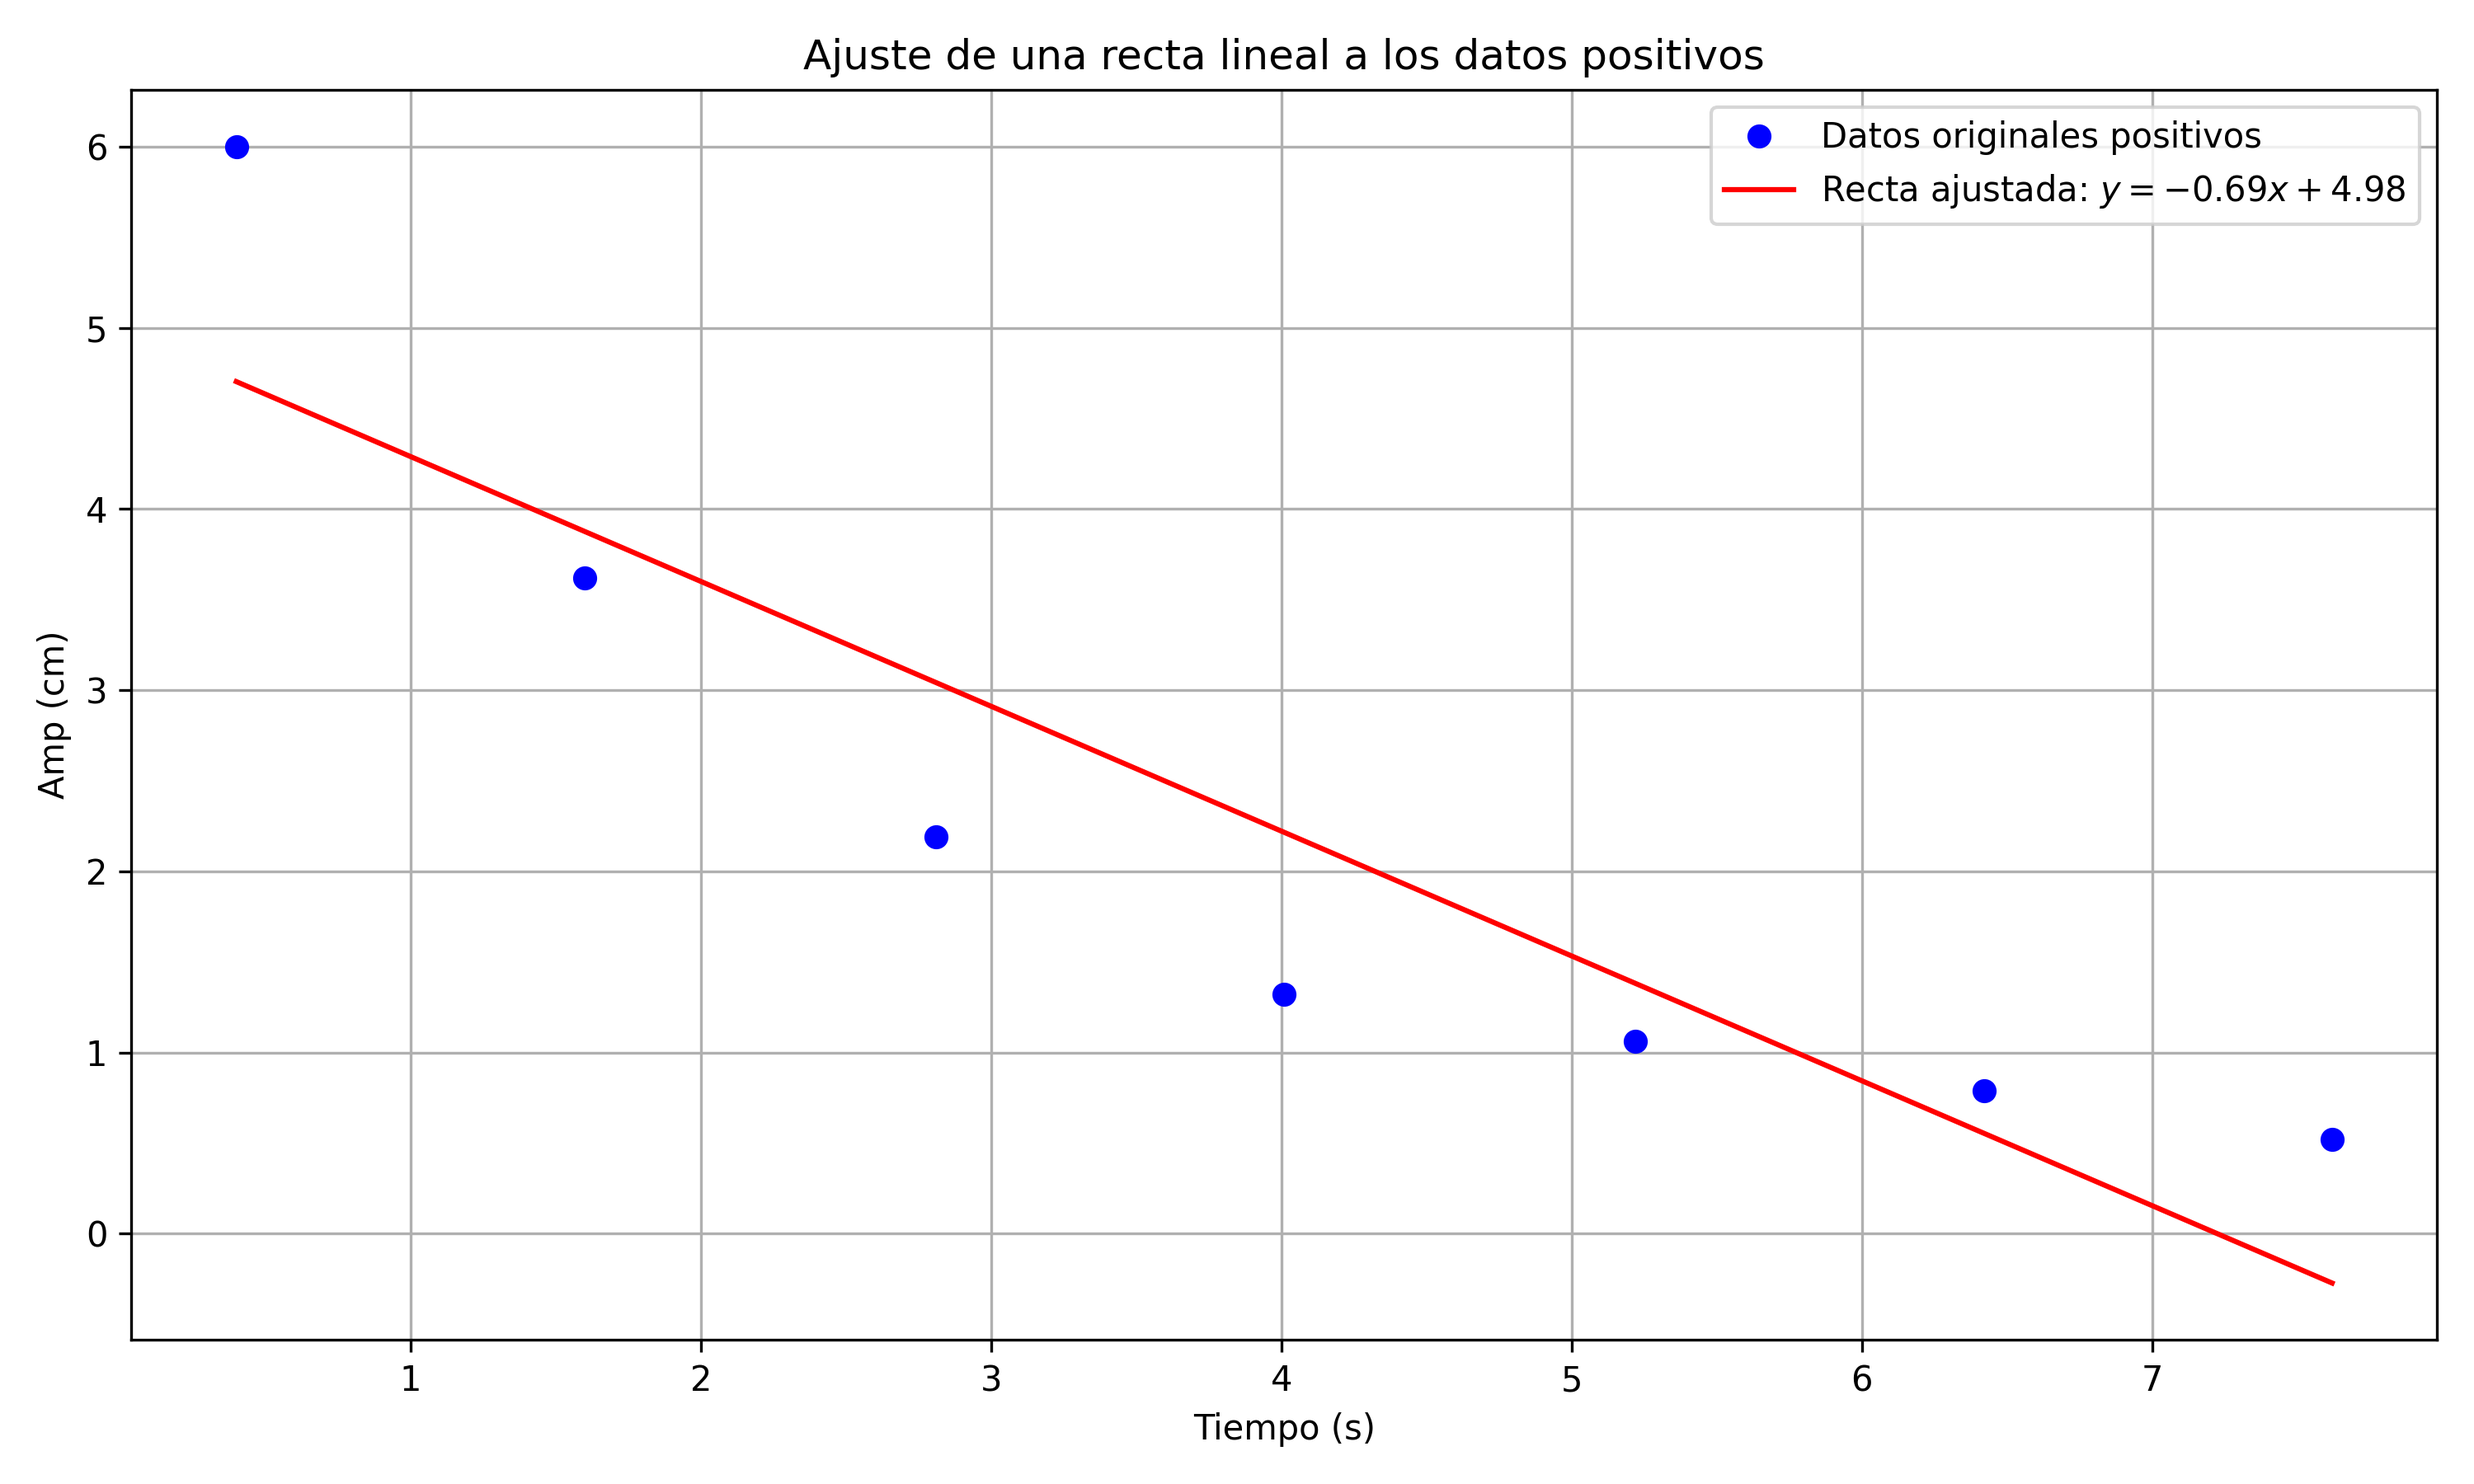
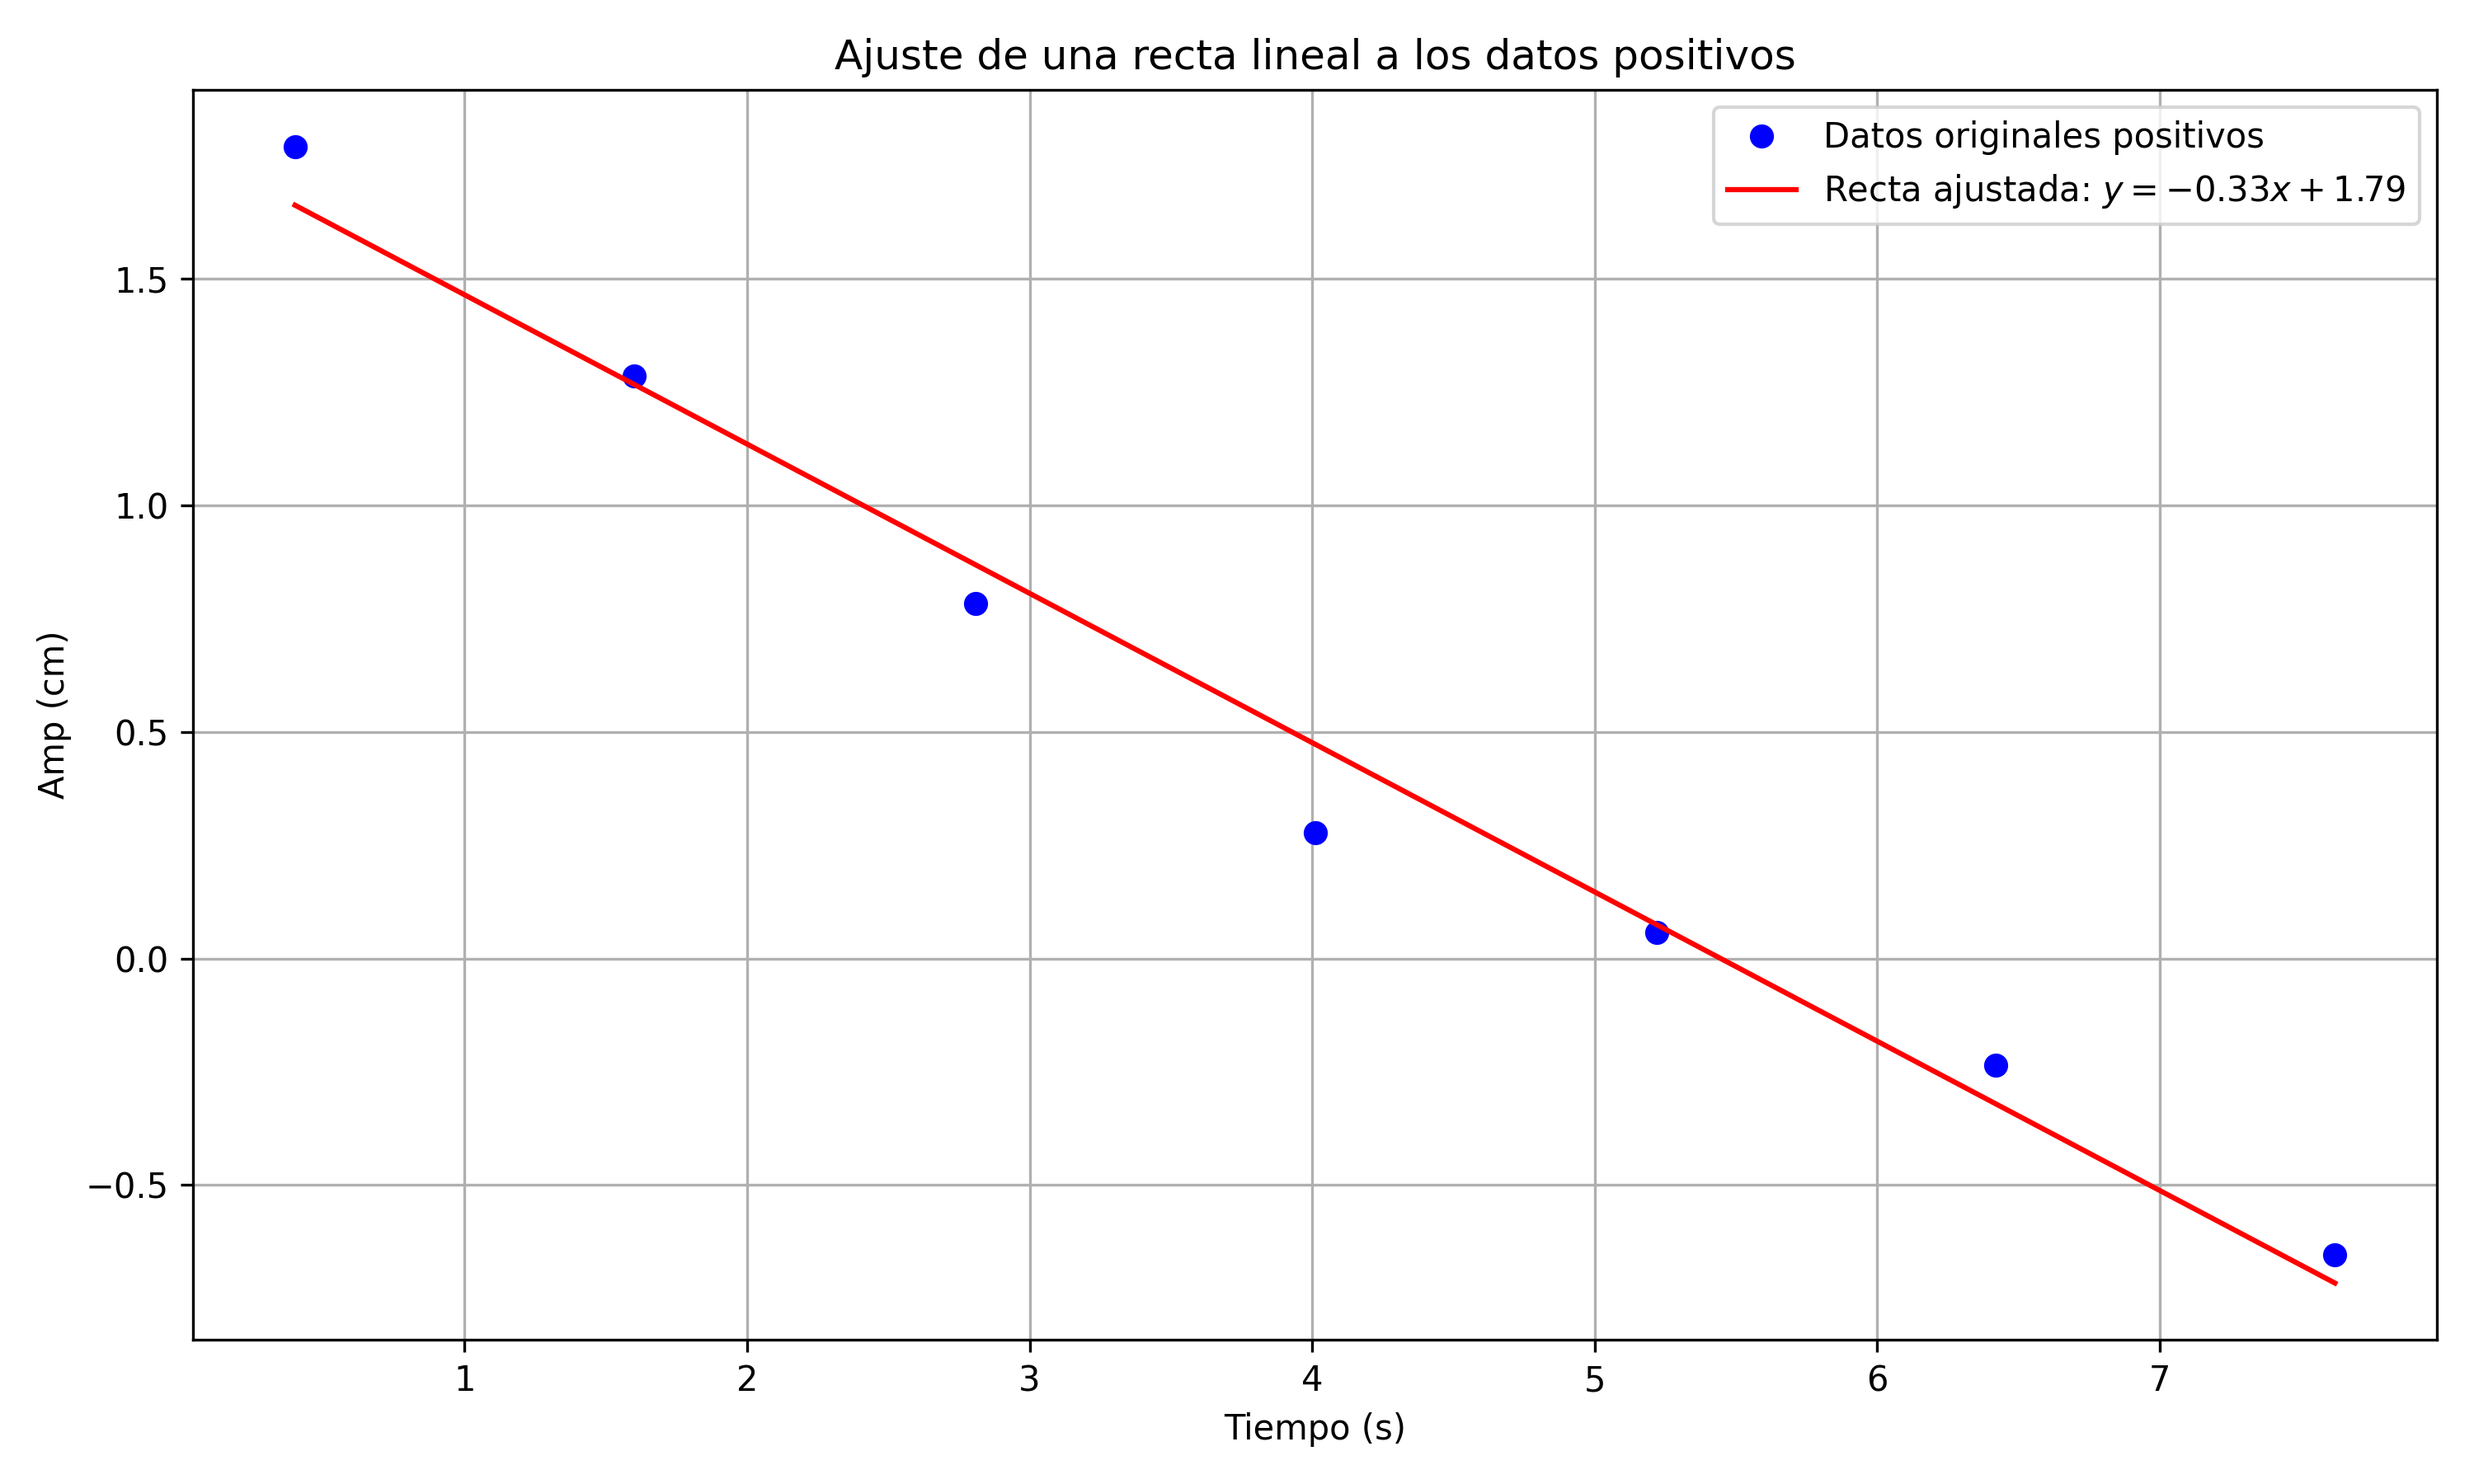
avance

diff --git a/INFORME/informe.tex b/INFORME/informe.tex
@@ -329,6 +329,21 @@ Algunos ejemplos son:
     \label{fig:ejemplo1}
 \end{figure}
 
+\section{Vibraciones Libres No Armortiguadas Verticales}
+
+En esta caso hay un desplazamiento inicial estatico mas un desplazamiento por vibracion.
+
+Sea $x_est$ el desplazamiento estatico, definido como:
+
+\begin{equation}
+    x_{est} = \frac{mg}{k}
+\end{equation}
+
+Se puede definir $u(t)$ como:
+
+\begin{equation}
+    u(t) = x_{est} + u_h(t) = x_{est} + A \sin(\omega_n t) + B \cos(\omega_n t)
+\end{equation}
 
 \section{Vibraciones Libres Armortiguadas}
 
@@ -597,13 +612,28 @@ Luego es posible generar una interpolacion a partir de estas mediciones, por eje
     \label{fig:ejemplo1}
 \end{figure}
 
-\textbf{OJO, la implitud debe ir en logaritmo natural}
+\textbf{OJO, la implitud debe ir en ln (abs ())}
 
 Luego la recta se puede escribir como:
 
 \begin{equation}
     y = mx + b \quad \text{Analogo a} \quad \ln(u_{max}) = \ln(\rho) - \beta \omega_n t
 \end{equation}
+
+Por lo tanto, se tiene las ecuaciones para los siguientes casos:
+
+\begin{equation}
+    \ln(u_{max}) = \ln(\rho) - \beta \omega_n t
+\end{equation}
+
+\begin{equation}
+    \ln(\ddot{u}_{max}) = \ln(-\rho \omega_n) - \beta \omega_n t
+\end{equation}
+
+\begin{equation}
+    \ln(\ddot{u}_{max}) = \ln(-\rho \omega^2_n) - \beta \omega_n t
+\end{equation}
+
 
 Ademas, es posible obtener el periodo armortiguado, asi como la frecuencia armoritugada promediando los intervalos:
 

diff --git a/CODIGOS/interpolacion.py b/CODIGOS/interpolacion.py
@@ -1,12 +1,19 @@
 import numpy as np
 import matplotlib.pyplot as plt
+from math import log
 
 # Datos proporcionados (solo los valores positivos de Amp)
 amp_pos = np.array([6.0, 3.62, 2.19, 1.32, 1.06, 0.79, 0.52])
 tiempo_pos = np.array([0.4, 1.6, 2.81, 4.01, 5.22, 6.42, 7.62])
 
+AMP = []
+
+for elemento in amp_pos:
+    if elemento > 0:
+        AMP.append(log(abs(elemento)))
+
 # Ajuste de la recta lineal (regresión lineal) solo para los datos positivos
-m, b = np.polyfit(tiempo_pos, amp_pos, 1)  # Encuentra la pendiente m y el intercepto b
+m, b = np.polyfit(tiempo_pos, AMP, 1)  # Encuentra la pendiente m y el intercepto b
 
 # Crear la función de la recta ajustada
 recta = m * tiempo_pos + b
@@ -15,7 +22,7 @@ recta = m * tiempo_pos + b
 plt.figure(figsize=(10, 6))
 
 # Graficar los valores originales
-plt.plot(tiempo_pos, amp_pos, 'bo', label='Datos originales positivos')
+plt.plot(tiempo_pos, AMP, 'bo', label='Datos originales positivos')
 
 # Graficar la recta ajustada
 plt.plot(tiempo_pos, recta, 'r-', label=f'Recta ajustada: $y = {m:.2f}x + {b:.2f}$')
